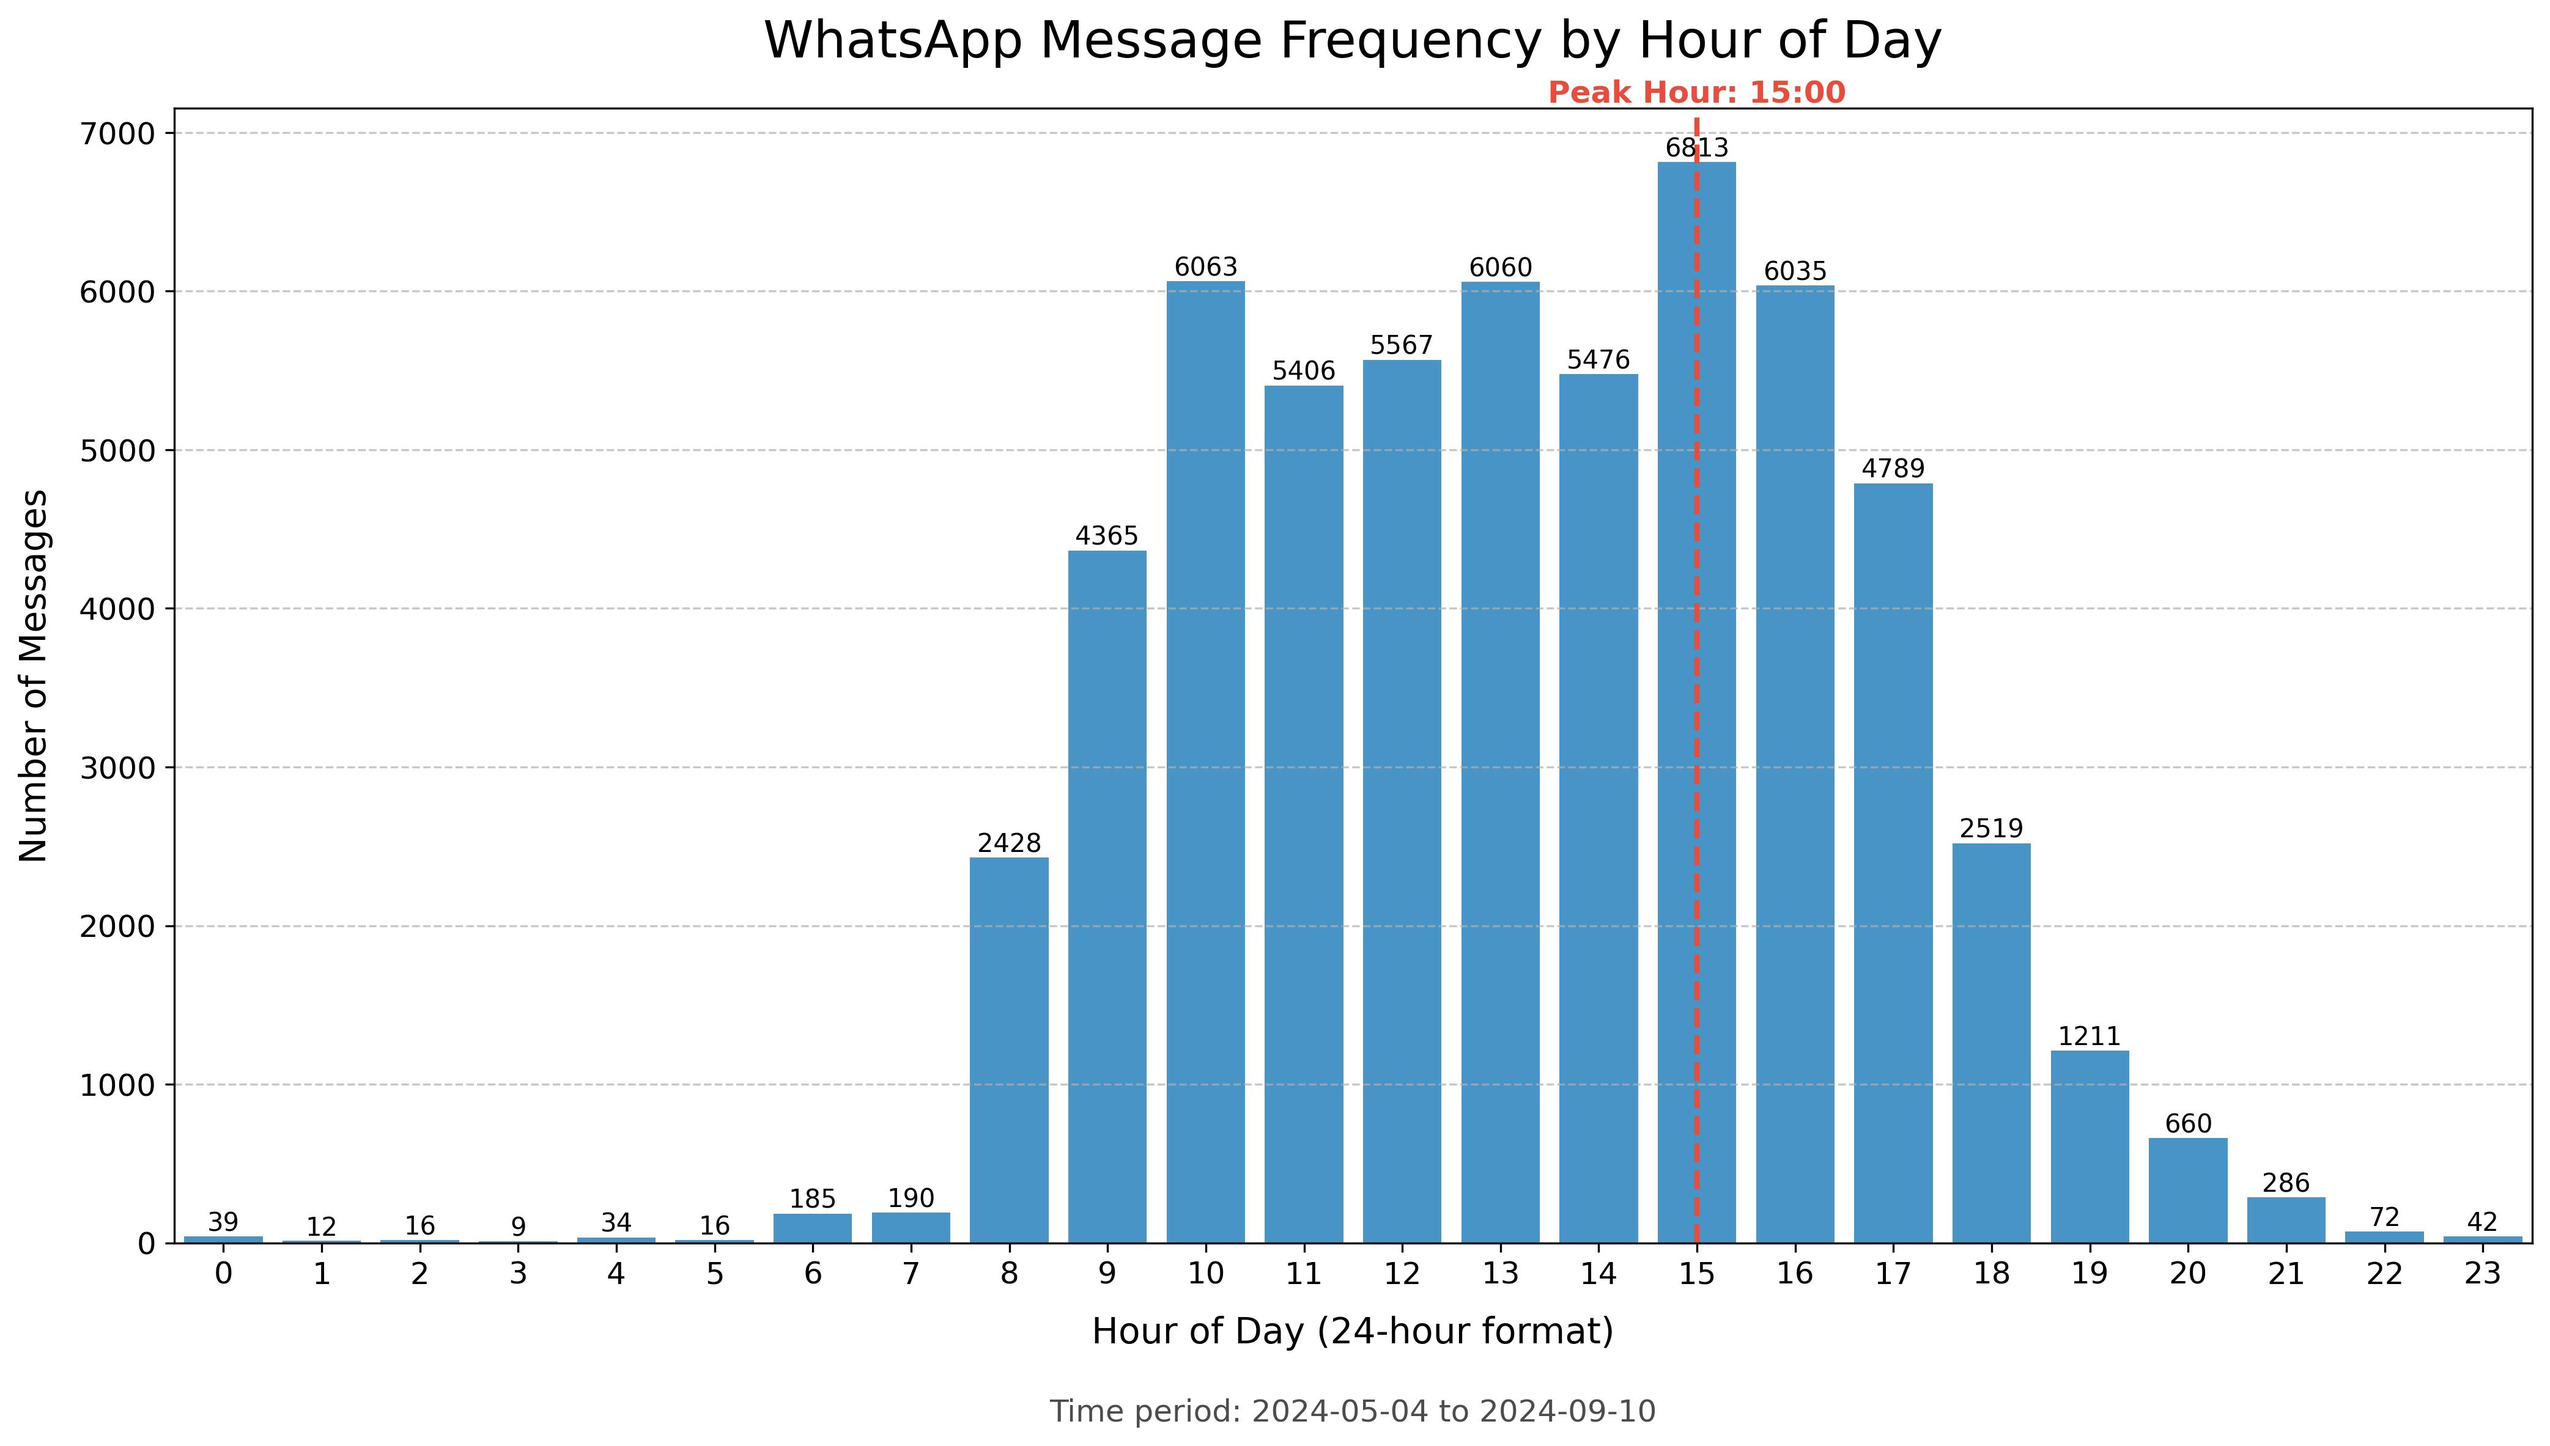
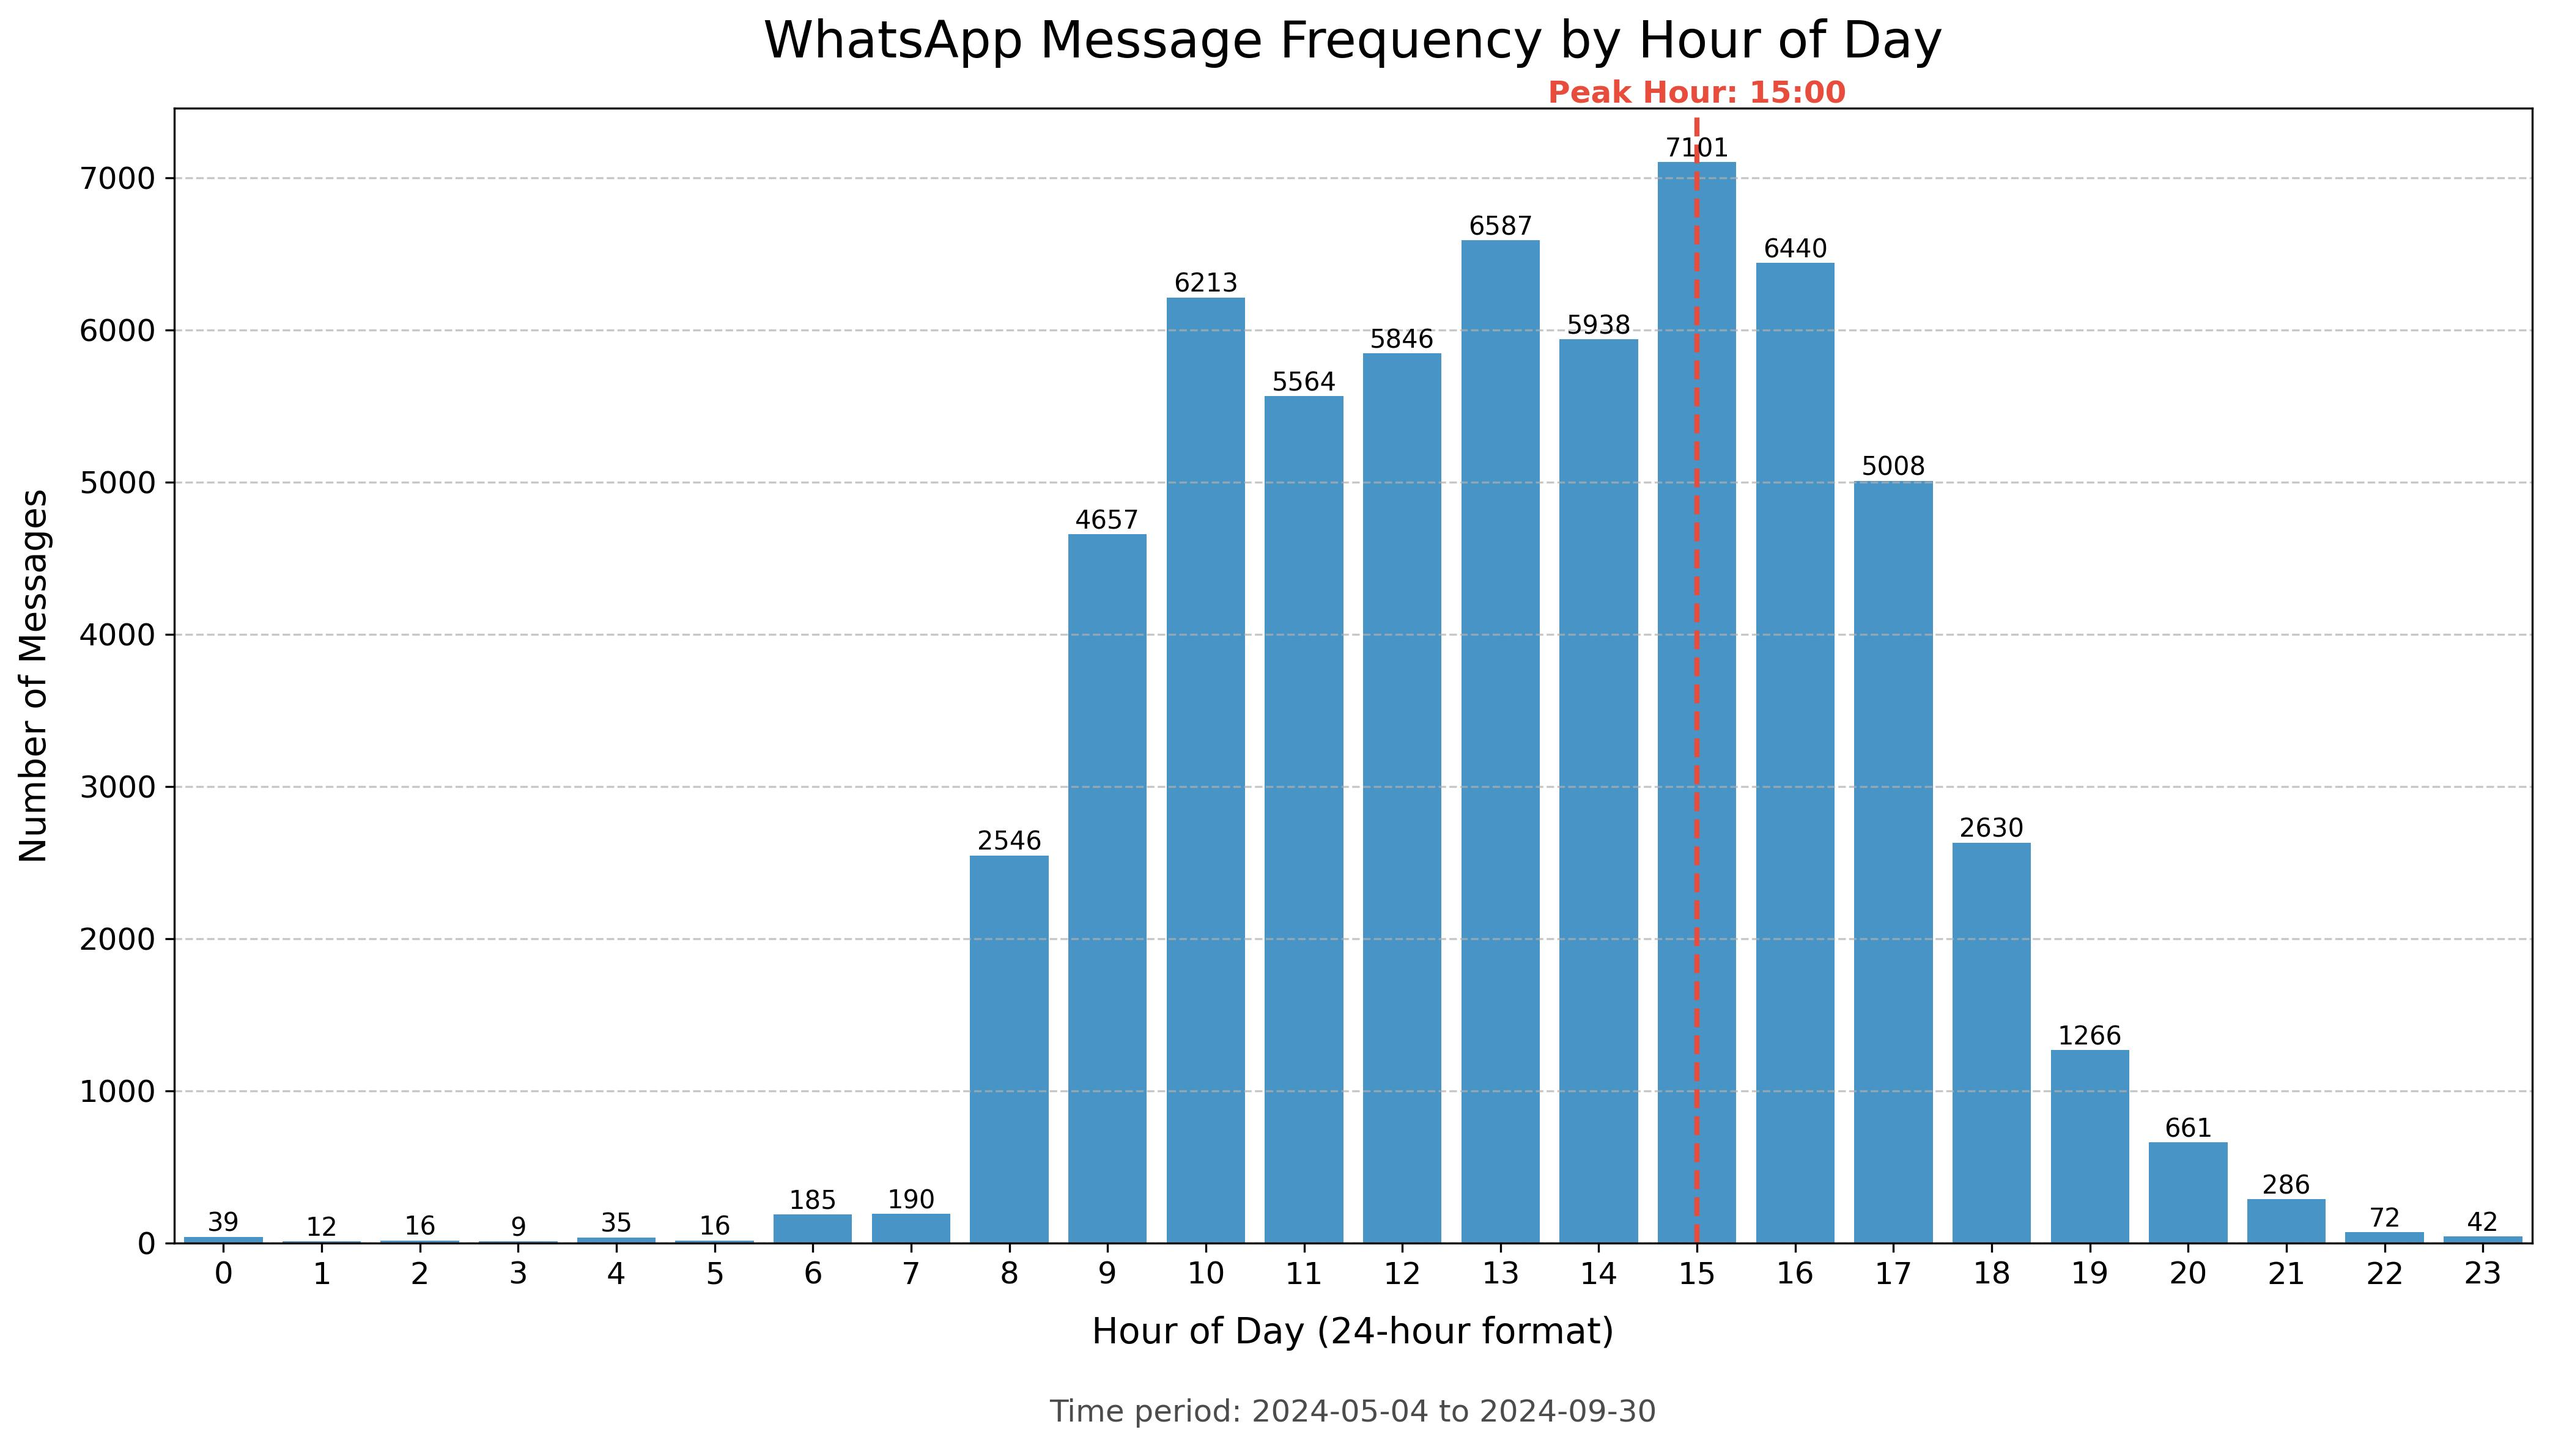
Add sentiment analysis and update dependencies
Added a new module `distribution.py` for sentiment analysis with VADER and visualizations. Updated `config.toml` and `pyproject.toml` to reflect new configurations and dependency requirements. Updated relevant cleaning notebook to ensure compatibility with new data structures and paths.

diff --git a/src/distribution.py b/src/distribution.py
@@ -1,0 +1,130 @@
+import pandas as pd
+import matplotlib.pyplot as plt
+import seaborn as sns
+import numpy as np
+from vaderSentiment.vaderSentiment import SentimentIntensityAnalyzer
+from wa_cleaner.humanhasher import humanize
+import os
+
+
+def analyze_sentiment(text):
+    sid = SentimentIntensityAnalyzer()
+    sentiment_scores = sid.polarity_scores(text)
+    return sentiment_scores['compound'], sentiment_scores['neg'], sentiment_scores['neu'], sentiment_scores['pos']
+
+
+def ensure_dir(file_path):
+    directory = os.path.dirname(file_path)
+    if not os.path.exists(directory):
+        os.makedirs(directory)
+
+
+def sentiment_analysis(df, img_path):
+    df['timestamp'] = pd.to_datetime(df['timestamp'])
+    df['sentiment'], df['neg'], df['neu'], df['pos'] = zip(*df['message'].apply(analyze_sentiment))
+    df['month'] = df['timestamp'].dt.to_period('M')
+
+    # Print diagnostic information
+    print(f"Total messages: {len(df)}")
+    print(f"Messages with negative sentiment: {len(df[df['sentiment'] < 0])}")
+    print(f"Messages with positive sentiment: {len(df[df['sentiment'] > 0])}")
+    print(f"Messages with neutral sentiment: {len(df[df['sentiment'] == 0])}")
+    print(f"Minimum sentiment score: {df['sentiment'].min()}")
+    print(f"Maximum sentiment score: {df['sentiment'].max()}")
+
+    # Print a few examples of messages with their sentiment scores
+    print("\nExample messages and their sentiment scores:")
+    sample_messages = df.sample(n=min(5, len(df)))
+    for _, row in sample_messages.iterrows():
+        print(f"Message: {row['message'][:50]}...")
+        print(
+            f"Sentiment: {row['sentiment']:.4f} (neg: {row['neg']:.4f}, neu: {row['neu']:.4f}, pos: {row['pos']:.4f})")
+        print()
+
+    users = df['author'].unique()
+    colors = plt.cm.Set2(np.linspace(0, 1, len(users)))
+
+    fig, (ax1, ax2) = plt.subplots(2, 1, figsize=(12, 12), gridspec_kw={'height_ratios': [1, 1.5]})
+    fig.suptitle('WhatsApp Conversation Mood Analysis', fontsize=16)
+
+    # Monthly average sentiment
+    monthly_sentiment = df.groupby('month')['sentiment'].mean()
+    ax1.plot(monthly_sentiment.index.astype(str), monthly_sentiment.values, color='black', linewidth=2)
+    ax1.set_title('Monthly Average Mood', fontsize=14)
+    ax1.set_xlabel('')
+    ax1.set_ylabel('Sentiment (-1 to 1)')
+    ax1.axhline(y=0, color='red', linestyle='--', alpha=0.5)
+    ax1.fill_between(monthly_sentiment.index.astype(str), monthly_sentiment.values, 0,
+                     where=(monthly_sentiment.values > 0), interpolate=True, color='lightgreen', alpha=0.3)
+    ax1.fill_between(monthly_sentiment.index.astype(str), monthly_sentiment.values, 0,
+                     where=(monthly_sentiment.values <= 0), interpolate=True, color='lightcoral', alpha=0.3)
+    ax1.tick_params(axis='x', rotation=45)
+
+    # User summary
+    user_summary = df.groupby('author').agg({
+        'sentiment': ['mean', 'std', 'count'],
+        'neg': 'mean',
+        'neu': 'mean',
+        'pos': 'mean',
+        'timestamp': ['min', 'max']
+    })
+    user_summary.columns = ['avg_sentiment', 'std_sentiment', 'message_count', 'avg_neg', 'avg_neu', 'avg_pos',
+                            'first_message', 'last_message']
+    user_summary = user_summary.sort_values('avg_sentiment', ascending=True)
+
+    # Enhanced user summary visualization
+    bar_height = 0.5
+    y_pos = np.arange(len(users))
+
+    # Negative sentiment bars
+    ax2.barh(y_pos, user_summary['avg_neg'], height=bar_height, align='center', color='lightcoral', alpha=0.7,
+             label='Negative')
+
+    # Neutral sentiment bars
+    ax2.barh(y_pos, user_summary['avg_neu'], height=bar_height, align='center', left=user_summary['avg_neg'],
+             color='lightgray', alpha=0.7, label='Neutral')
+
+    # Positive sentiment bars
+    ax2.barh(y_pos, user_summary['avg_pos'], height=bar_height, align='center',
+             left=user_summary['avg_neg'] + user_summary['avg_neu'], color='lightgreen', alpha=0.7, label='Positive')
+
+    # Add average sentiment markers
+    for i, (idx, row) in enumerate(user_summary.iterrows()):
+        ax2.scatter(row['avg_sentiment'], i, color='black', s=50, zorder=3)
+        ax2.plot([row['avg_sentiment'], row['avg_sentiment']], [i - bar_height / 2, i + bar_height / 2], color='black',
+                 linewidth=2, zorder=2)
+
+    ax2.set_yticks(y_pos)
+    ax2.set_yticklabels([humanize(user) for user in user_summary.index])
+    ax2.invert_yaxis()
+    ax2.set_xlabel('Sentiment Components and Average')
+    ax2.set_title('User Mood Summary', fontsize=14)
+    ax2.axvline(x=0, color='red', linestyle='--', alpha=0.5)
+    ax2.legend(loc='lower right')
+
+    # Add message count and date range annotations
+    for i, (idx, row) in enumerate(user_summary.iterrows()):
+        ax2.annotate(f"Messages: {row['message_count']}", xy=(1.02, i), xycoords=('axes fraction', 'data'),
+                     va='center', ha='left', fontsize=8)
+        date_range = f"{row['first_message'].strftime('%Y-%m-%d')} to {row['last_message'].strftime('%Y-%m-%d')}"
+        ax2.annotate(date_range, xy=(1.02, i - 0.3), xycoords=('axes fraction', 'data'),
+                     va='center', ha='left', fontsize=8)
+
+    plt.tight_layout()
+    output_path = os.path.join(img_path, 'whatsapp_mood_analysis.png')
+    ensure_dir(output_path)
+    plt.savefig(output_path, dpi=300, bbox_inches='tight')
+    plt.close()
+
+    print(f"Mood analysis completed. Visualization saved as: {output_path}")
+
+    # Create a histogram of sentiment scores
+    plt.figure(figsize=(10, 6))
+    sns.histplot(df['sentiment'], bins=50, kde=True)
+    plt.title('Distribution of Sentiment Scores')
+    plt.xlabel('Sentiment Score')
+    plt.ylabel('Frequency')
+    hist_path = os.path.join(img_path, 'sentiment_distribution.png')
+    plt.savefig(hist_path, dpi=300, bbox_inches='tight')
+    plt.close()
+    print(f"Sentiment distribution histogram saved as: {hist_path}")

diff --git a/src/main.py b/src/main.py
@@ -3,6 +3,7 @@ from visualization import create_simple_message_frequency_plot
 from emoji_use import emoji_usage_chart
 from timestamp import visualize_hourly_activity
 from distribution_vis import analyze_whatsapp_data
+from distribution import sentiment_analysis
 import os
 
 def load_data(file_path):
@@ -13,7 +14,7 @@ def load_data(file_path):
 def main():
     current_dir = os.path.dirname(os.path.abspath(__file__))
 
-    data_path = os.path.join(current_dir, '..', 'data', 'processed', 'whatsapp-20240924-182120.csv')
+    data_path = os.path.join(current_dir, '..', 'data', 'processed', 'whatsapp-20240930-201745.csv')
 
     df = load_data(data_path)
 
@@ -29,8 +30,8 @@ def main():
         os.path.join(current_dir, '..', 'images', 'hourly_activity.jpg'))
     print(f"Emoji usage chart saved as {output_path_emoji}")
 
-    output_path_dist = os.path.join(current_dir, '..', 'images', 'dist_image.jpg')
-    analyze_whatsapp_data(df, output_path_dist)
+    output_path_dist = os.path.join(current_dir, '..', 'images')
+    sentiment_analysis(df, output_path_dist)
     print("Analysis complete!")
 
 if __name__ == "__main__":
